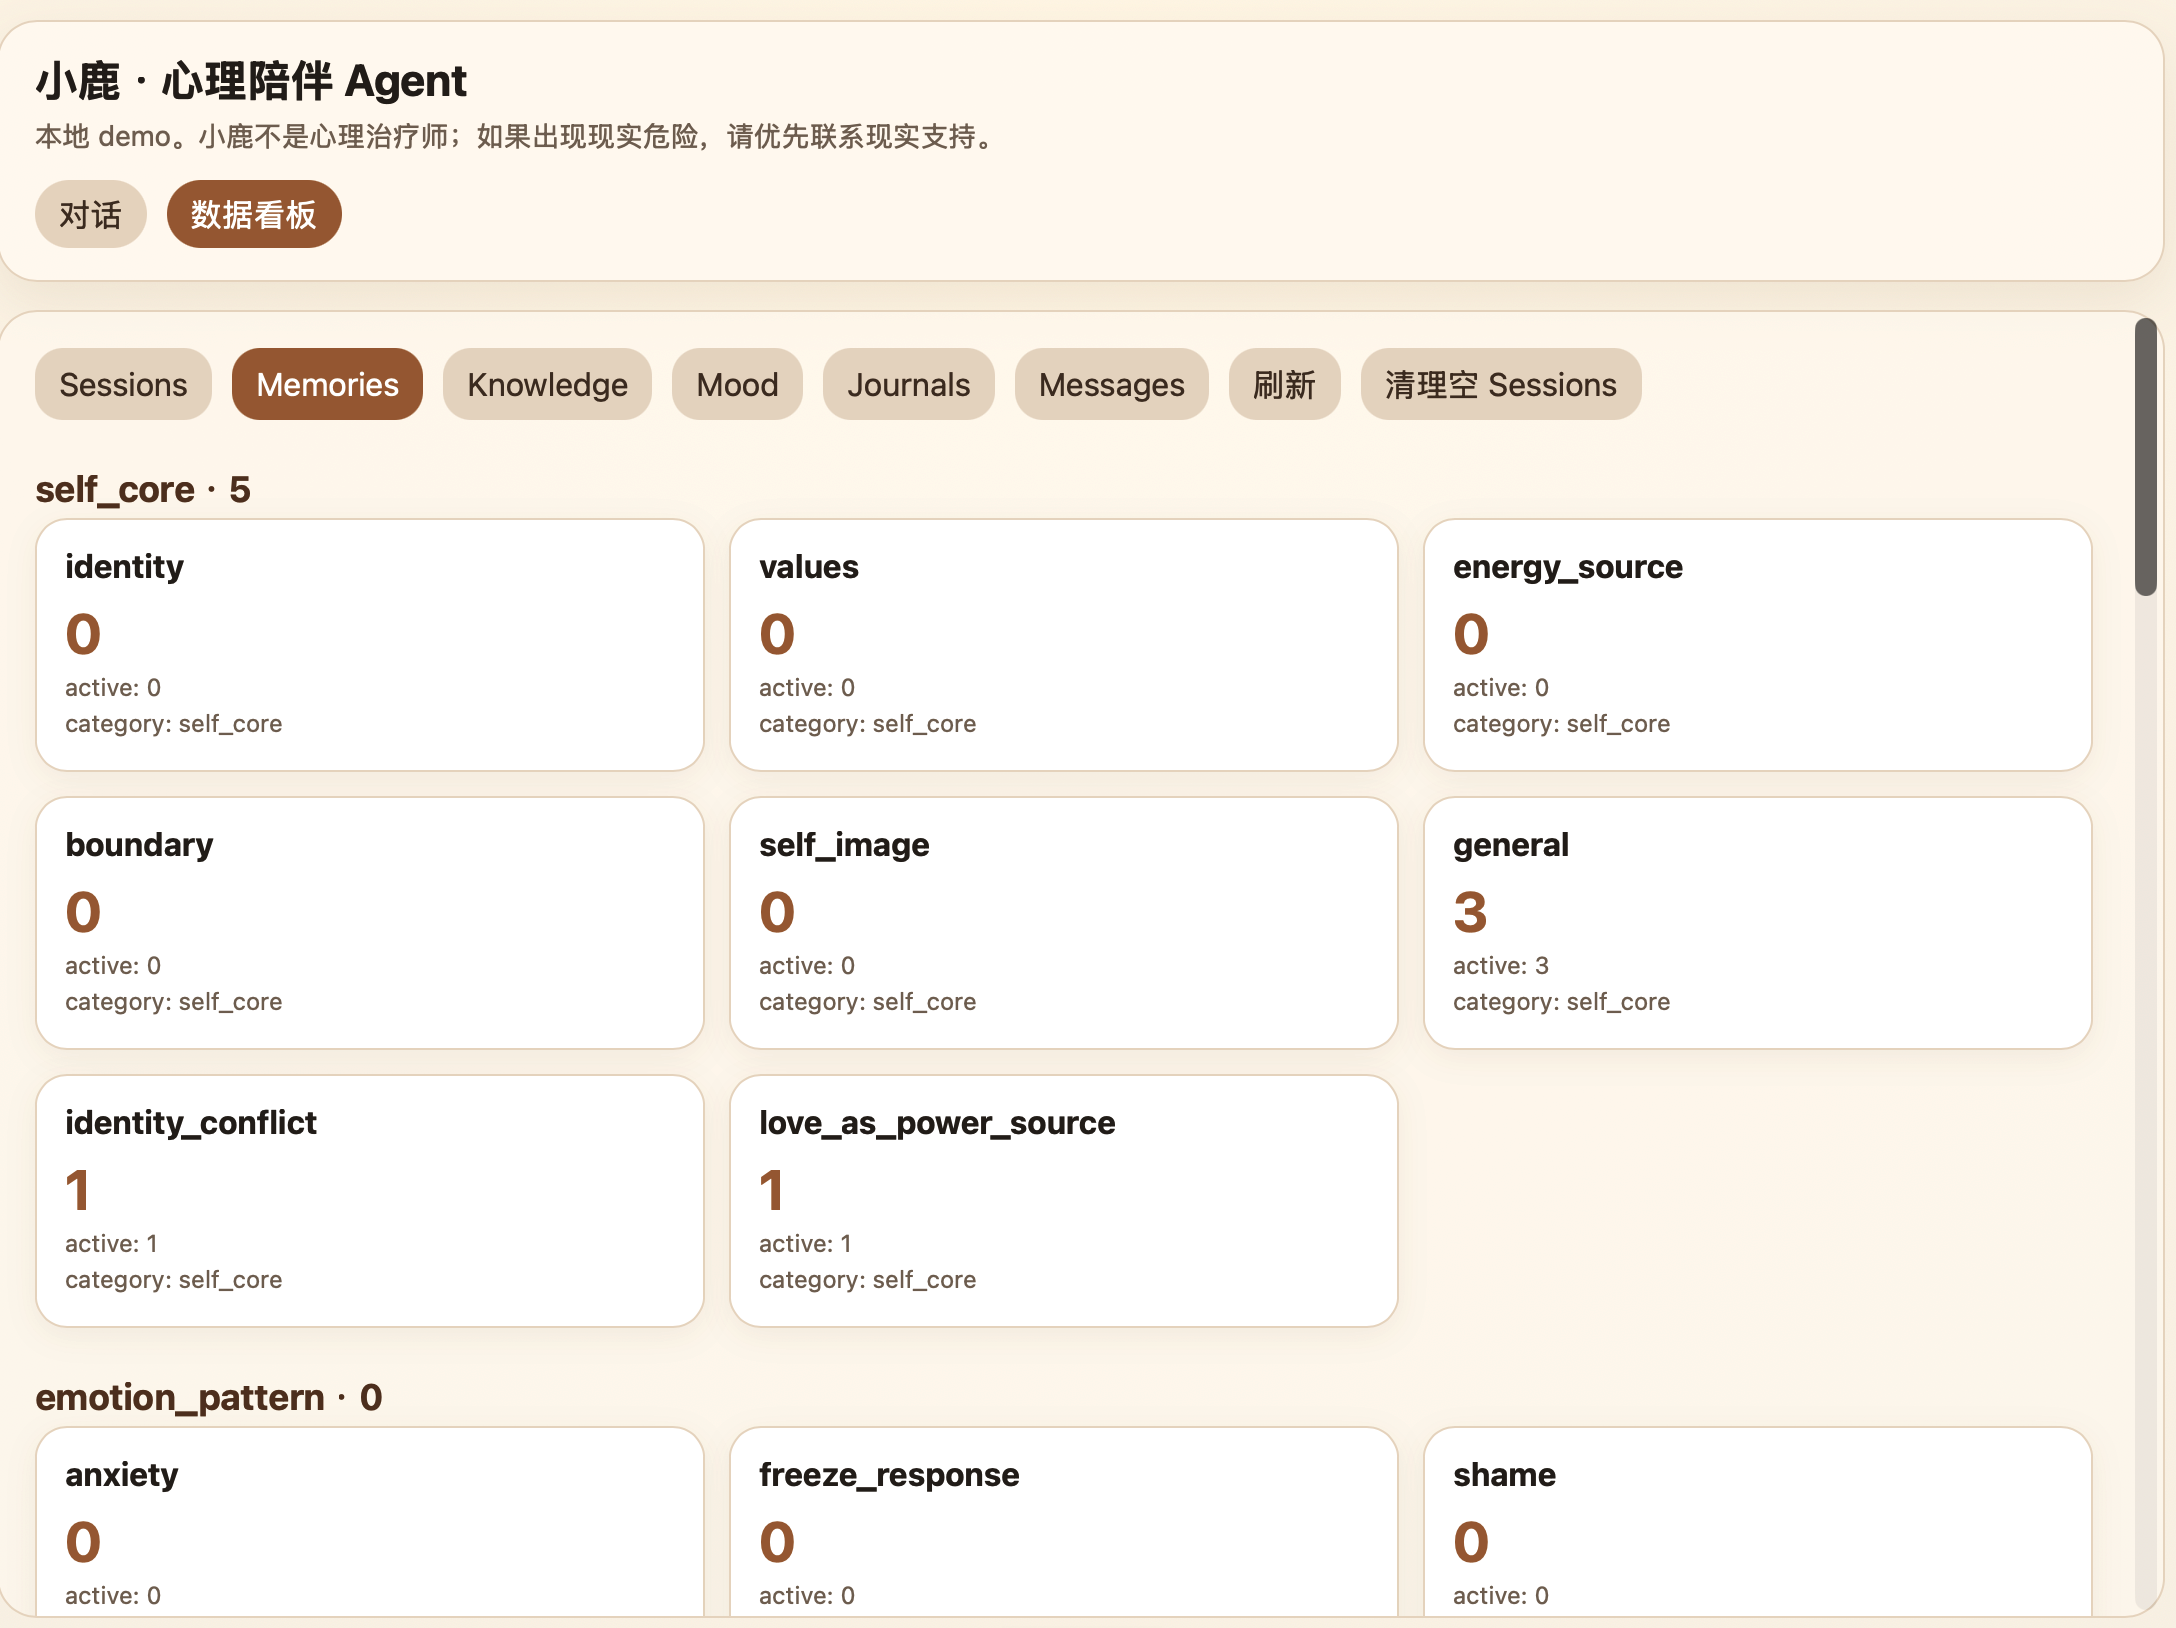
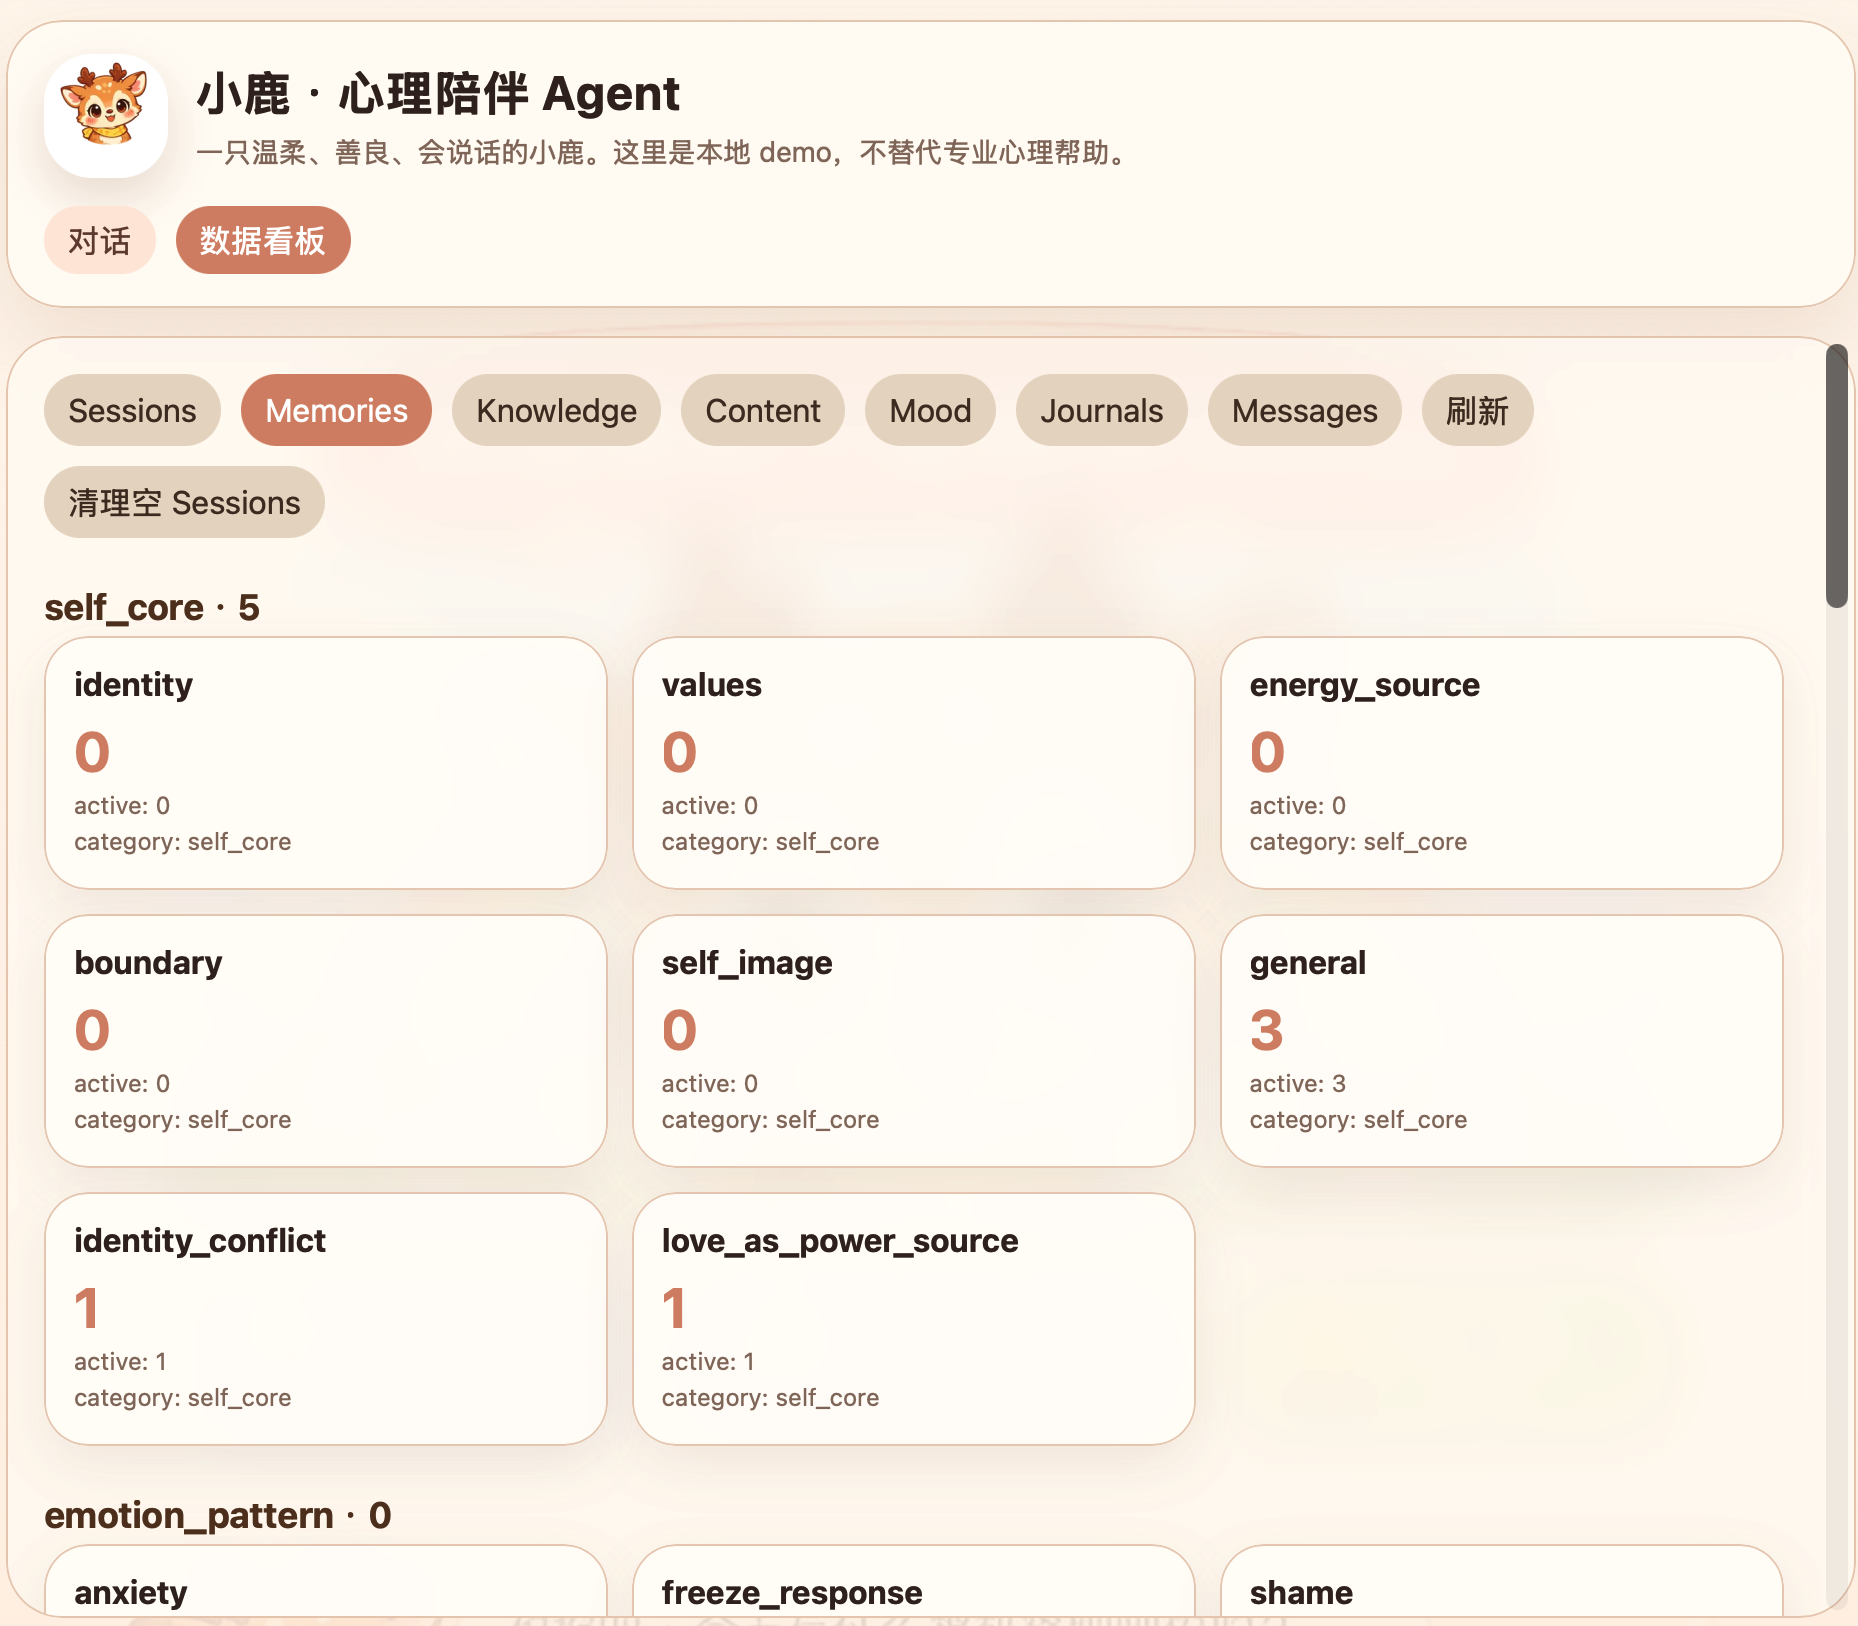
docs(screenshots, readme): 更新文档截图并调整README排版
新增Knowledge.png截图文件，重新整理截图章节顺序并移除重复内容，同时添加docs/.DS_Store到.gitignore以忽略macOS系统缓存文件

Changed region(s): [[0.0, 0.0308, 0.9989, 1.0]]

diff --git a/README.md b/README.md
@@ -17,14 +17,17 @@
 
 ## 🖼️ 截图
 
+### 对话界面
+![对话界面](docs/screenshots/Chat.png)
+
 ### 数据看板 - 记忆视图
 ![记忆看板](docs/screenshots/Memory.png)
 
+### 数据看板 - 知识卡视图
+![知识卡看板](docs/screenshots/Knowledge.png)
+
 ### 数据看板 - 心情视图
 ![心情看板](docs/screenshots/Mood.png)
-
-### 对话界面
-![对话界面](docs/screenshots/Chat.png)
 
 ***
 